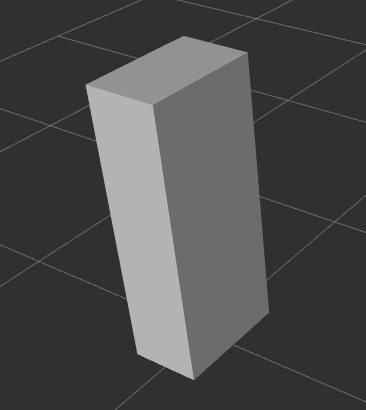
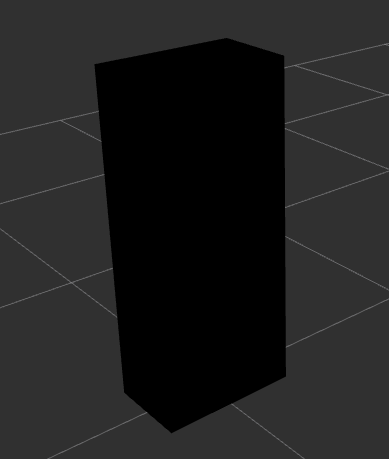
change obstacle to be visualized as black

diff --git a/robot.rst b/robot.rst
@@ -87,6 +87,18 @@ Set up a publisher that publishes the robot array with one teammate and one oppo
       attributes:
         player_number: 3
         team: 2
+    - bb:
+        center:
+          position:
+            x: 0.0
+            y: -1.5
+            z: 0.4
+        size:
+          x: 0.4
+          y: 0.4
+          z: 0.8
+      attributes:
+        player_number: 4
   "
 
 Open RViz2 with a demo configuration:

diff --git a/obstacle.rst b/obstacle.rst
@@ -4,7 +4,7 @@ Obstacle
 .. figure:: images/obstacle.png
   :align: center
 
-  Obstacles are visualized using a **white, cube** marker
+  Obstacles are visualized using a **black, cube** marker
 
 Properties
 **********
